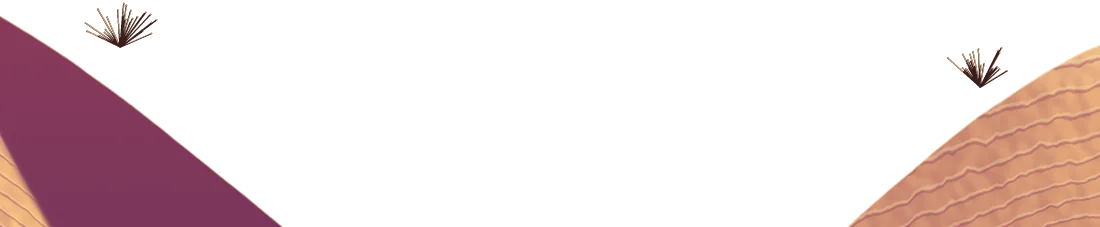
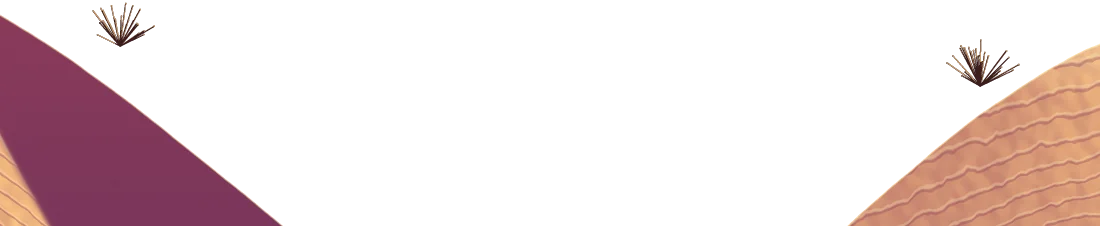
Ruta v29 · A1 y A2: roca con estratos, grietas y cortados, nubes sin contorno que derivan, oasis protagonista
A1: cumbres con muescas, escalones y oclusión en la base; nubes sueltas que derivan a distintas velocidades.
A2: oasis de la Media Luna grande con pabellón, vega, juncos y agua que refleja el cielo de fuego; huellas de la
caravana, rocas y matorrales en la arena. Móvil: el lienzo se encuadra por ancho para ver la escena entera.

Claude-Session: https://claude.ai/code/session_01BaUMrzu23xfwmbCXf3BkLv

diff --git a/src/styles/v28-ruta-mundos-vivos.css b/src/styles/v28-ruta-mundos-vivos.css
@@ -152,3 +152,11 @@
   .mr28 .ma-vuelo, .mr28 .ma-sube > img, .mr28 .ma-humo > img, .mr28 .ma-rafaga > img, .mr28 .ma-destello > img, .mr28 .ma-vuelo > img.ma-b { opacity: 0; }
   .mr28 .ma-vuelo { display: none; }
 }
+
+/* ===== v29 · Nubes que derivan, encuadre móvil ===== */
+.mr28 .ma-deriva { animation-name: maDesliza; animation-timing-function: linear; animation-direction: alternate; }
+/* Móvil: el lienzo se encuadra por ANCHO (118 %) para que se vea la escena entera y no solo la franja central;
+   arriba queda el cielo en degradado (detrás del velo y de las pestañas) */
+@media (max-width: 700px) {
+  .mr28 .mr-lienzo { width: 124%; }
+}

diff --git a/scripts/mundos/a2.py b/scripts/mundos/a2.py
@@ -8,7 +8,7 @@ import numpy as np
 
 import arquitectura as ar
 import sprites as sp
-from pincel import (H, W, Capa, Lienzo, borde, cielo, cirros, col, desenfoca, desplaza, mezcla, niebla, nube, perfil_picos, sierra,
+from pincel import (H, W, Capa, Lienzo, borde, desplaza, reflejo_capa, nube_suelta, cielo, cirros, col, desenfoca, desplaza, mezcla, niebla, nube, perfil_picos, sierra,
                     sombra_de, sombra_elipse, spline, suave, volumen)
 
 LUZ = -1
@@ -185,20 +185,42 @@ def pinta(M):
     for i, (cx, top, hw, base) in enumerate([(60, 1000, 260, 1150), (1060, 990, 230, 1140)]):
         duna(C, cx, top, hw, base, seed=50 + i, ondas=0.8)
     # lago en media luna
-    lago = L.mascara(lambda P: P.poly(spline([(600, 1110), (690, 1064), (850, 1046), (1010, 1060), (1090, 1110), (990, 1098), (850, 1094), (710, 1106), (630, 1128)], 10, cerrada=True)))
-    agua = mezcla(np.broadcast_to(col("#5a3a6a"), (H, W, 3)), col("#ffc27a"), suave(1100, 1055, Y)[..., None])
-    agua = mezcla(agua, col("#ffe8b0"), np.exp(-(((X - 860) / 120) ** 2))[..., None] * 0.5)
-    C.pon(agua, lago)
-    C.pon("#7a8a4a", borde(lago, 0, 3, 1.0) * 0.8)
+    # oasis de la Media Luna (protagonista): pabellón en la orilla, agua que refleja el cielo de fuego, juncos y orilla verde
+    pab, (abx, aby) = ar.salon(170, aleros=2, luz=LUZ, teja=("#2a3a34", "#5f7a5a", "#d8c890"), terrazas=2, marmol=("#6a3a40", "#d89a78"), rojo=("#3a0e18", "#b04a3a"), ncol=7, seed=10)
+    vega = L.mascara(lambda P: P.poly(spline([(400, 1092), (560, 1034), (800, 1012), (1040, 1026), (1120, 1070), (1120, 1210), (900, 1222), (600, 1210), (420, 1160)], 10, cerrada=True)))
+    vc = mezcla(np.broadcast_to(col("#2a3218"), (H, W, 3)), col("#7a7a36"), volumen(vega, 10, LUZ, -0.8)[..., None])
+    vc = mezcla(vc, col("#c8784a"), suave(1020, 1220, Y)[..., None] * 0.35)
+    vc = mezcla(vc, col("#ffcf80"), (suave(0.55, 0.8, L.ruido(1.4, 44)) * 0.3)[..., None])
+    C.pon(vc, vega * suave(0.2, 0.6, desenfoca(vega, 6)))
+    sombra_de(C, pab, 930 - abx, 1046 - aby, LUZ, largo=1.4, aplasta=0.2, c="#3a1a3a", f=0.4)
+    C.pega(pab, 930 - abx, 1046 - aby)
+    lago = L.mascara(lambda P: P.poly(spline([(450, 1120), (560, 1066), (760, 1050), (960, 1062), (1080, 1100), (1060, 1130), (930, 1112), (760, 1112), (600, 1136), (500, 1160)], 10, cerrada=True)))
+    y_l = 1050
+    cielo_ref = cielo(L, [(0, "#fde4a8"), (0.68, "#ffd890"), (0.71, "#f08a44"), (0.74, "#c8443e"), (0.77, "#7a2a50"), (1, "#3a1648")])
+    cielo_ref = mezcla(cielo_ref, col("#fff2c0"), (np.exp(-(((X - sx - 420) / 140) ** 2)) * suave(1170, y_l, Y) * 0.55)[..., None])
+    reflejo_capa(C, y_l, 1180, cielo_ref, f=0.7, olas=2.0, seed=45, mascara=lago, brillo="#ffe8b0", oscurece=0.7)
+    C.pon("#2a3a1a", borde(lago, 0, 3, 1.2) * 0.7)
+    C.pon("#fff0c0", borde(lago, 0, -2, 0.8) * 0.5)
     # juncos y hierba en la orilla
     rng = np.random.default_rng(9)
-    junc = L.mascara(lambda P: [P.linea([(x, y), (x + rng.uniform(-3, 3), y - rng.uniform(8, 20))], 1.2) for x, y in
-                                [(rng.uniform(600, 1090), 1100 + rng.uniform(-12, 18)) for _ in range(90)]])
-    C.pon(mezcla(np.broadcast_to(col("#2a3a20"), (H, W, 3)), col("#8a9a4a"), suave(1070, 1110, Y)[..., None]), junc)
-    # pabellón del oasis (月牙泉阁) en la orilla
-    pab, (abx, aby) = ar.salon(130, aleros=2, luz=LUZ, teja=("#2a3a34", "#5f7a5a", "#d8c890"), terrazas=1, marmol=("#6a3a40", "#d89a78"), rojo=("#3a0e18", "#b04a3a"), ncol=6, seed=10)
-    sombra_de(C, pab, 900 - abx, 1060 - aby, LUZ, largo=1.4, aplasta=0.2, c="#6a2a4a", f=0.4)
-    C.pega(pab, 900 - abx, 1060 - aby)
+    orilla = [(x, 1086 + 40 * np.sin((x - 450) / 640 * np.pi) * 0.5 + rng.uniform(-14, 30)) for x in rng.uniform(440, 1100, 220)]
+    junc = L.mascara(lambda P: [P.trazo([(x, y), (x + rng.uniform(-5, 5), y - rng.uniform(10, 30))], 1.6, 0.4) for x, y in orilla])
+    C.pon(mezcla(np.broadcast_to(col("#1a2a14"), (H, W, 3)), col("#8a9a4a"), suave(1060, 1150, Y)[..., None]), junc)
+    C.pon("#ffcf80", borde(junc, -LUZ, 0) * 0.6)
+    # huellas de la caravana en la arena, rocas y matorrales
+    huella = spline([(-20, 1260), (180, 1236), (330, 1190), (430, 1150)], 30)
+    hm = L.mascara(lambda P: [P.elip(x + (3 if i % 2 else -3), y + (2 if i % 2 else -2), 3.2, 1.6) for i, (x, y) in enumerate(huella[::2])])
+    C.pon("#a8605a", hm * 0.55)
+    C.pon("#ffe0a8", desplaza(hm, 0, 1.5) * (1 - hm) * 0.5)
+    for i, (x, y, r) in enumerate(((260, 1300, 26), (300, 1316, 14), (720, 1330, 34), (760, 1348, 16), (520, 1250, 12), (880, 1290, 20))):
+        rk = L.mascara(lambda P: P.poly(spline([(x - r, y), (x - r * 0.7, y - r * 0.7), (x, y - r * 0.9), (x + r * 0.8, y - r * 0.5), (x + r, y)], 5, cerrada=True)))
+        sombra_de_c = desplaza(rk, int(r * 0.9), 3)
+        C.pon("#7a3a4a", desenfoca(sombra_de_c, 2) * (1 - rk) * 0.4)
+        C.pon(mezcla(np.broadcast_to(col("#5a2a3a"), (H, W, 3)), col("#e8a070"), volumen(rk, 4, LUZ, -0.8, 1.3)[..., None]), rk)
+    mat = L.mascara(lambda P: [P.linea([(x, y), (x + np.cos(a_) * l, y - np.sin(a_) * l)], 1.1) for x, y in ((380, 1240), (640, 1290), (980, 1250), (180, 1200)) for a_, l in
+                               [(rng.uniform(0.3, 2.8), rng.uniform(8, 22)) for _ in range(22)]])
+    C.pon("#3a1e1e", mat)
+    C.pon("#ffcf8a", borde(mat, -LUZ, -1) * 0.6)
     sp_w, sp_h = sp.palmera(M.ruta("palmera.webp"), 200, luz=LUZ, seed=2)
     palmas = sp.palmera  # (los sprites de palmera se reutilizan como piezas que se mecen)
     C.tiñe("#ffd9a0", np.exp(-(((X - sx) / 400) ** 2 + ((Y - sy - 300) / 300) ** 2)) * 0.25)
@@ -224,8 +246,8 @@ def pinta(M):
         yy = float(perfiles[k][int(x)])
         M.actor("dunas", "rafaga.webp", x - 10, yy - 34, 120, 40, "rafaga", dur=3.6 + i * 0.4, retraso=-i * 1.1, op=0.75, movil=i < 3)
     sp.brillo_agua(M.ruta("brillo.webp"), 300, 40, "#fff2c0", seed=4)
-    M.actor("oasis", "brillo.webp", 720, 1056, 300, 34, "brillo", dur=2.6, op=0.9)
-    M.actor("oasis", "brillo.webp", 760, 1078, 200, 22, "brillo", dur=3.4, retraso=-1.2, op=0.7, movil=False)
+    M.actor("oasis", "brillo.webp", 600, 1062, 420, 40, "brillo", dur=2.6, op=0.95)
+    M.actor("oasis", "brillo.webp", 640, 1090, 300, 28, "brillo", dur=3.4, retraso=-1.2, op=0.75, movil=False)
     sp.franja(M.ruta("calima.webp"), 600, 40, "#ffd9a0", 0.55, seed=5)
     M.actor("ciudad", "calima.webp", 0, 770, 1100, 70, "calima", dur=5, op=0.55)
     M.actor("dunas", "calima.webp", 0, 990, 1100, 60, "calima", dur=6.5, retraso=-2, op=0.45, movil=False)
@@ -233,9 +255,12 @@ def pinta(M):
     for x in (520, 700, 900):
         C_ = None
         M.actor("ciudad", "bandera.webp", x, muro_y - 26, 18, 11, "bandera", dur=2.2, retraso=-x / 300, movil=False)
-    for i, (x, base, s, amp) in enumerate(((620, 1112, 0.6, 1.6), (680, 1090, 0.78, 1.4), (1040, 1100, 0.7, 1.8), (1085, 1106, 0.52, 2.0), (1000, 1560, 1.9, 1.2), (-40, 1590, 1.7, 1.0))):
+    for i, (x, base, s, amp) in enumerate(((470, 1120, 0.7, 1.6), (540, 1084, 0.86, 1.4), (1060, 1090, 0.8, 1.8), (1110, 1108, 0.6, 2.0), (1000, 1560, 1.9, 1.2), (-40, 1590, 1.7, 1.0))):
         w_, h_ = sp_w * s, sp_h * s
         M.actor("oasis" if i < 4 else "frente", "palmera.webp", x - w_ / 2, base - h_, w_, h_, "mece", dur=5 + i * 0.6, retraso=-i, amp=amp, movil=i in (0, 2, 4))
+    for i, (x, y, w, h, dur, dx) in enumerate(((80, 150, 360, 100, 170, 26), (700, 90, 380, 110, 210, -22), (420, 430, 300, 60, 120, 20))):
+        nw, nh = nube_suelta(M, f"nube{i}.webp", w, h, 400 + i, sx - x - 180, sy - y, "#ffc890", "#5e2656", "#ffe2a8", base_c="#e8706a", op=0.9)
+        M.actor("cielo", f"nube{i}.webp", x, y, nw, nh, "deriva", dur=dur, retraso=-dur * 0.3 * i, dx=dx, movil=i < 2)
     M.niebla("lejos", "arena", 47, 9, 0.6, 140)
     M.niebla("ciudad", "arena", 54, 8, 0.5, 100, inversa=True)
     M.guarda(SOL, niebla="arena")

diff --git a/scripts/mundos/pincel.py b/scripts/mundos/pincel.py
@@ -273,12 +273,12 @@ def nube(C, cx, cy, w, h, seed, sol, luz_c, sombra_c, borde_c, base_c=None, op=1
             sx_, sy_ = bx + np.cos(a) * r * 0.75, by + np.sin(a) * r * 0.75
             D = np.maximum(D, np.clip(1 - ((X - sx_) ** 2 + (Y - sy_) ** 2) / rr ** 2, 0, 1) ** 0.6)
     if plana:
-        D = D * suave(cy + h * 0.08, cy - h * 0.1, Y)
+        D = D * suave(cy + h * 0.32, cy - h * 0.28, Y) ** 1.3
     n = Lz.ruido(1.5, seed + 3)
     n2 = Lz.ruido(1.0, seed + 4)
     D = np.clip(D * 1.25 + (n - 0.5) * 0.55 + (n2 - 0.5) * 0.25 - 0.18, 0, 1)
-    D = desenfoca(D, 1.2)
-    a = suave(0.02, 0.35, D) * op
+    D = desenfoca(D, 2.6)
+    a = suave(0.0, 0.55, D) ** 1.2 * op  # borde blando que se deshace (sin contorno)
     ux, uy = sol[0] - cx, sol[1] - (cy - h * 0.5)
     nn = np.hypot(ux, uy) + 1e-6
     ux, uy = ux / nn, uy / nn
@@ -287,12 +287,12 @@ def nube(C, cx, cy, w, h, seed, sol, luz_c, sombra_c, borde_c, base_c=None, op=1
         dd = paso * max(w, h)
         occ = occ + desplaza(D, -ux * dd, -uy * dd) * k
     lit = np.clip(1.05 - occ * 1.15, 0, 1)
-    lit = np.clip(lit + suave(0.5, 0.0, D) * 0.25, 0, 1)
     c = mezcla(np.broadcast_to(col(sombra_c), D.shape + (3,)), col(luz_c), lit[..., None])
     if base_c:
         c = mezcla(c, col(base_c), (suave(cy - h * 0.55, cy + h * 0.05, Y) * (1 - lit) * 0.6)[..., None])
-    ed = np.clip(a - desplaza(a, -ux * 3, -uy * 3), 0, 1) * 0.8 + suave(0.25, 0.05, D) * a * np.clip(lit * 1.4 - 0.6, 0, 1) * 0.6
-    c = mezcla(c, col(borde_c), np.clip(ed * 1.0 * rim, 0, 1)[..., None])
+    # franja iluminada difusa del lado de la luz (dispersión), sin línea de contorno
+    ed = desenfoca(np.clip(a - desplaza(a, -ux * 10, -uy * 10), 0, 1), 4) * np.clip(lit * 1.3 - 0.3, 0, 1)
+    c = mezcla(c, col(borde_c), np.clip(ed * 0.45 * rim, 0, 1)[..., None])
     C.pon(c, a, x0, y0)
 
 
@@ -329,6 +329,8 @@ def perfil_picos(L, picos, forma="pico", rug=10, seed=1, base=None):
             pr = pr + np.exp(-((x - cx - hw * 0.45 * (1 if j % 2 else -1)) / (hw * 0.12)) ** 2) * (base - top) * 0.06
             pr = np.where(d >= 1, 1e9, pr)
             pr = pr + ruido1(L.w, 1.7, seed + j * 3) * rug * (0.3 + dd)
+            pr = pr + np.abs(ruido1(L.w, 1.2, seed + j * 3 + 7)) * rug * 1.4 * dd
+            pr = pr + np.round(ruido1(L.w, 2.4, seed + j * 3 + 9) * 2.5) / 2.5 * rug * 0.8 * dd
         elif forma == "duna":
             pr = top + d ** 1.5 * (base - top) * 0.6
             pr = pr + ruido1(L.w, 2.6, seed + j) * rug
@@ -341,12 +343,16 @@ def perfil_picos(L, picos, forma="pico", rug=10, seed=1, base=None):
             pr = np.minimum(pr, top + (base - top) * 0.28 + (base - top) * (np.abs(x - cx - lado_h * hw * 0.55) / (hw * 0.4)) ** 0.9 * 0.7)
             det = ruido1(L.w, 1.9, seed + j * 13) * rug + ruido1(L.w, 1.3, seed + j * 7) * rug * 0.25
             pr = pr + det * np.clip(1 - d * 0.4, 0.3, 1)
+            # muescas en V y cortados escalonados (crestas de roca, no conos)
+            pr = pr + np.abs(ruido1(L.w, 1.3, seed + j * 5 + 2)) * rug * 1.1 * np.clip(d, 0.1, 1)
+            esc = np.round(ruido1(L.w, 2.2, seed + j * 9 + 4) * 3) / 3
+            pr = pr + esc * rug * 0.9 * np.clip(d, 0, 1)
         total = np.minimum(total, pr)
     return total
 
 
 def sierra(C, perfil, base, *, luz=1, lit="#ffffff", sombra="#556688", nieve=None, aire=None, aire_f=0.0, pie=None, niebla_pie=None,
-           filo=0.0, filo_c="#fff6e0", seed=1, estrias=1.0, textura=0.1, karst=False, roca=None):
+           filo=0.0, filo_c="#fff6e0", seed=1, estrias=1.0, textura=0.1, karst=False, roca=None, verde=None):
     """Rellena bajo la silueta con relieve: caras según la pendiente de la cresta + crestas y torrenteras (ruido
     «ridged» vertical) iluminadas por la luz clave, nieve en lo plano y alto, luz de borde en el filo y aire."""
     L = C.L
@@ -378,6 +384,24 @@ def sierra(C, perfil, base, *, luz=1, lit="#ffffff", sombra="#556688", nieve=Non
     c = mezcla(np.broadcast_to(col(sombra), (L.h, L.w, 3)), col(lit), ilum)
     tex = L.ruido(1.3, seed + 5) - 0.5
     c = c * (1 + tex[..., None] * textura)
+    # estratos: bandas casi horizontales deformadas que se inclinan con la ladera, y grietas oscuras
+    ondul = desenfoca(L.ruido(2.6, seed + 31), 4) * 60
+    periodo = 9.0 if karst else 13.0
+    est = np.sin((Y + ondul + orient * (X % 997) * 0.12) / periodo * np.pi)
+    estrato = suave(0.82, 0.97, est) * np.clip(prof * 3, 0, 1)
+    c = mezcla(c, col(sombra) * 0.7, (estrato * 0.32 * (0.6 + 0.4 * (1 - ilum)))[..., None])
+    c = mezcla(c, col(lit), (suave(0.82, 0.97, -est) * ilum * 0.18 * np.clip(prof * 3, 0, 1))[..., None])
+    gr = ridged(L, seed + 41, aniso=(1.0, 2.4), beta=1.6)
+    grieta = suave(0.955, 0.99, gr[yi, xi]) * np.clip(prof * 4, 0, 1)
+    c = mezcla(c, col(sombra) * 0.45, (grieta * 0.55)[..., None])
+    c = mezcla(c, col(lit), (borde(grieta, luz * 1.5, 0) * ilum * 0.4)[..., None])
+    # oclusión ambiental: los pies de la montaña y el fondo de los barrancos, más oscuros
+    c = mezcla(c, col(sombra) * 0.6, (suave(base - 160, base + 20, Y) * 0.3 + (1 - relieve) * 0.12)[..., None] * (1 if niebla_pie is None else 0.8))
+    if verde is not None:
+        rep = suave(0.58, 0.72, desenfoca(L.ruido(1.7, seed + 51), 1.2)) * suave(0.45, 0.25, np.abs(orient)) * np.clip(prof * 5, 0, 1)
+        rep = np.maximum(rep, suave(0.6, 0.75, relieve) * np.clip(prof * 2 - 0.2, 0, 1) * 0.6)
+        vc = mezcla(np.broadcast_to(col(verde[0]), (L.h, L.w, 3)), col(verde[1]), np.clip(ilum * 1.1, 0, 1)[..., None])
+        c = mezcla(c, vc, (np.clip(rep, 0, 1) * 0.85)[..., None])
     if roca is not None:  # vetas de roca (karst): bandas horizontales irregulares
         vet = L.ruido(1.8, seed + 21, aniso=(0.25, 3.0))
         c = mezcla(c, col(roca), suave(0.62, 0.8, vet) * 0.35)
@@ -387,10 +411,11 @@ def sierra(C, perfil, base, *, luz=1, lit="#ffffff", sombra="#556688", nieve=Non
         # nieve en las crestas del relieve (vetas que bajan); cerca de la cima casi todo, abajo solo en lo alto
         umbral = 0.95 - lim * 0.55 * np.exp(-prof / max(lim, 0.05) * 1.2) - 0.18 * ln
         hay = suave(umbral - 0.06, umbral + 0.06, relieve * 0.8 + 0.2 * ln)
-        hay = np.maximum(hay, suave(0.06, 0.0, prof) * 0.9)
+        hay = np.maximum(hay, suave(0.04, 0.0, prof) * 0.9)
+        hay = hay * suave(0.25, 0.55, relieve * 0.7 + ilum * 0.3 + 0.2 * ln)  # roca a la vista en barrancos y caras en sombra
         c = mezcla(c, mezcla(np.broadcast_to(col(n_sombra), (L.h, L.w, 3)), col(n_lit), ilum), np.clip(hay, 0, 1))
     if filo:
-        b = suave(4.0, 0.0, Y - pf[None, :]) * suave(0.3, 0.85, ilum)
+        b = (suave(5.0, 0.0, Y - pf[None, :]) + borde(alfa, -luz * 3, 0, 1.0) * 0.8) * suave(0.25, 0.8, ilum)
         c = mezcla(c, col(filo_c), b * filo)
     if pie:
         c = mezcla(c, col(pie), suave(base - 200, base, Y) * 0.6)
@@ -527,3 +552,13 @@ def vdesenfoca(a, r):
     for _ in range(3):
         a = fr.caja(a, max(1, int(r / 1.7)), 0)
     return a
+
+
+def nube_suelta(M, nombre, w, h, seed, sol_dx, sol_dy, luz_c, sombra_c, borde_c, base_c=None, op=1.0):
+    """Nube aparte (sprite) para que derive sobre el cielo a su propia velocidad. sol_dx/dy: dónde queda la luz."""
+    Lz = Lienzo(int(w * 1.5), int(h * 2.3))
+    C = Capa(Lz)
+    cx, cy = Lz.w / 2, h * 1.75
+    nube(C, cx, cy, w, h, seed, (cx + sol_dx, cy + sol_dy), luz_c, sombra_c, borde_c, base_c=base_c, op=op, plana=False)
+    guarda_png_rgba(C.rgb, C.a, M.ruta(nombre))
+    return Lz.w, Lz.h

diff --git a/scripts/mundos/a1.py b/scripts/mundos/a1.py
@@ -6,7 +6,7 @@ import numpy as np
 
 import arquitectura as ar
 import sprites as sp
-from pincel import (H, W, sombra_de, Capa, Lienzo, Mundo, borde, bz, cirros, col, cielo, desenfoca, desplaza, mezcla, niebla, nube, oclusion,
+from pincel import (H, W, sombra_de, nube_suelta, Capa, Lienzo, Mundo, borde, bz, cirros, col, cielo, desenfoca, desplaza, mezcla, niebla, nube, oclusion,
                     perfil_picos, ruido1, sierra, sombra_elipse, spline, suave, volumen)
 
 LUZ = 1
@@ -100,10 +100,10 @@ def pinta(M):
     # ------------------------------------------------------------ 1 · cumbres lejanas
     C = Capa(L)
     pf = perfil_picos(L, [(-10, 540, 190), (120, 500, 120), (250, 455, 230), (400, 520, 110), (560, 500, 200), (700, 545, 120), (830, 430, 250), (960, 505, 130), (1110, 480, 200)],
-                      rug=20, seed=3, base=770)
-    sierra(C, pf, 770, luz=LUZ, lit="#f6dcbc", sombra="#4b5d90", nieve=("#fff6e8", "#8296c2", 0.7), aire="#c9d4e6", aire_f=0.2, filo=1.0, filo_c="#fff0d0",
+                      rug=34, seed=3, base=770)
+    sierra(C, pf, 770, luz=LUZ, lit="#f6dcbc", sombra="#4b5d90", nieve=("#fff6e8", "#8296c2", 0.55), aire="#c9d4e6", aire_f=0.2, filo=1.0, filo_c="#fff0d0",
            niebla_pie=("#eef1f5", 170, 0.95), seed=3, estrias=1.6)
-    pf2 = perfil_picos(L, [(90, 600, 160), (300, 585, 190), (500, 625, 150), (720, 575, 200), (930, 615, 170), (1100, 590, 160)], rug=16, seed=5, base=820)
+    pf2 = perfil_picos(L, [(90, 600, 160), (300, 585, 190), (500, 625, 150), (720, 575, 200), (930, 615, 170), (1100, 590, 160)], rug=24, seed=5, base=820)
     sierra(C, pf2, 820, luz=LUZ, lit="#ecd0ae", sombra="#46588a", nieve=("#fff8ee", "#7c90bc", 0.5), aire="#d5dde9", aire_f=0.16, filo=0.9,
            niebla_pie=("#f0f2f5", 130, 0.95), seed=5, estrias=1.6)
     C.tiñe("#ffe2bc", np.exp(-(((X - sx) / 420) ** 2 + ((Y - sy - 120) / 300) ** 2)) * 0.45)
@@ -263,6 +263,10 @@ def pinta(M):
         M.actor("cordillera", "grulla-a.webp", 1120 + dx, 360 + dy, 60 * s, 35 * s, "vuelo", dur=46, retraso=-8 - i * 0.15, dx=-150, aleteo=0.9 + i * 0.07,
                 src2=f"{M.nivel}/grulla-b.webp", movil=i < 3)
 
+    # nubes sueltas que derivan delante del cielo pintado, a distintas velocidades
+    for i, (x, y, w, h, dur, dx) in enumerate(((60, 120, 300, 90, 140, 30), (640, 40, 360, 110, 190, -24), (300, 520, 260, 60, 110, 22))):
+        nw, nh = nube_suelta(M, f"nube{i}.webp", w, h, 300 + i, 500 - x, 380 - y, "#fff0dc", "#8a9ac0", "#ffe2b0", base_c="#b4a8c0", op=0.92)
+        M.actor("cielo", f"nube{i}.webp", x, y, nw, nh, "deriva", dur=dur, retraso=-dur * 0.3 * i, dx=dx, movil=i < 2)
     # nieblas que derivan entre planos
     M.niebla("lejos", "blanca", 44, 12, 0.7, 150)
     M.niebla("cordillera", "blanca", 54, 9, 0.55, 110, inversa=True)
